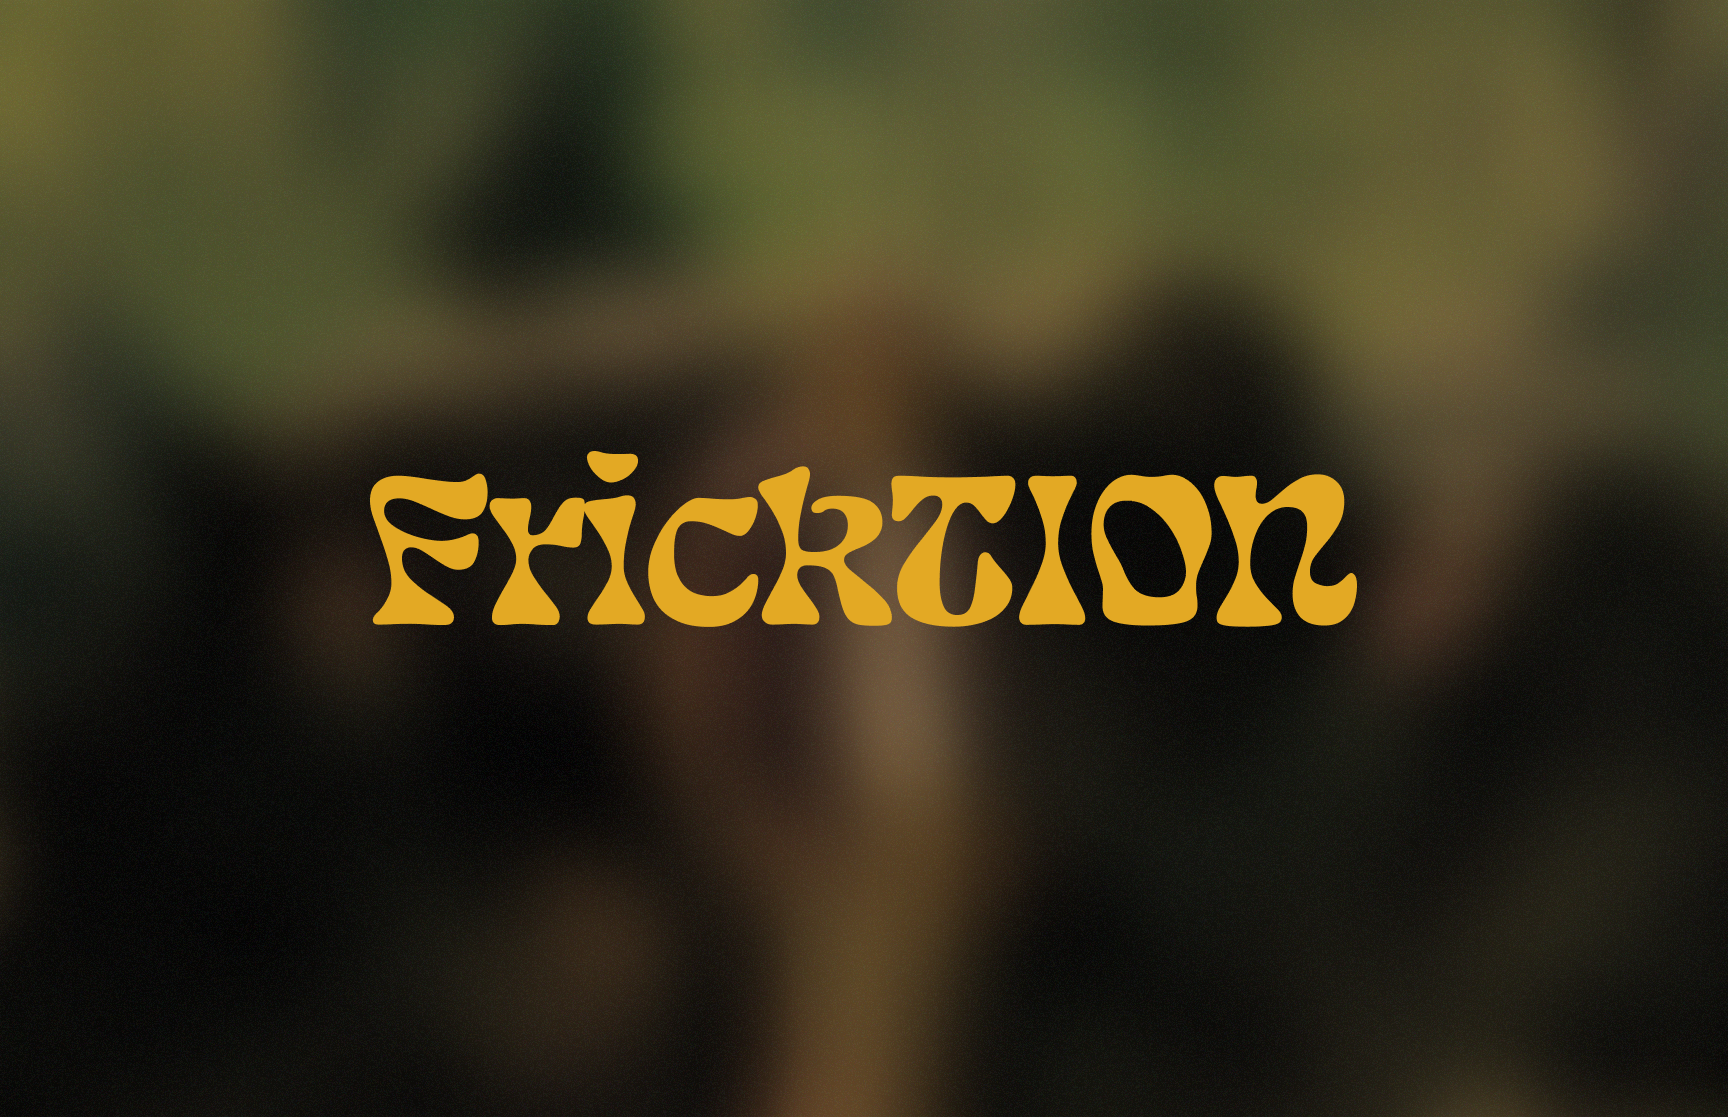
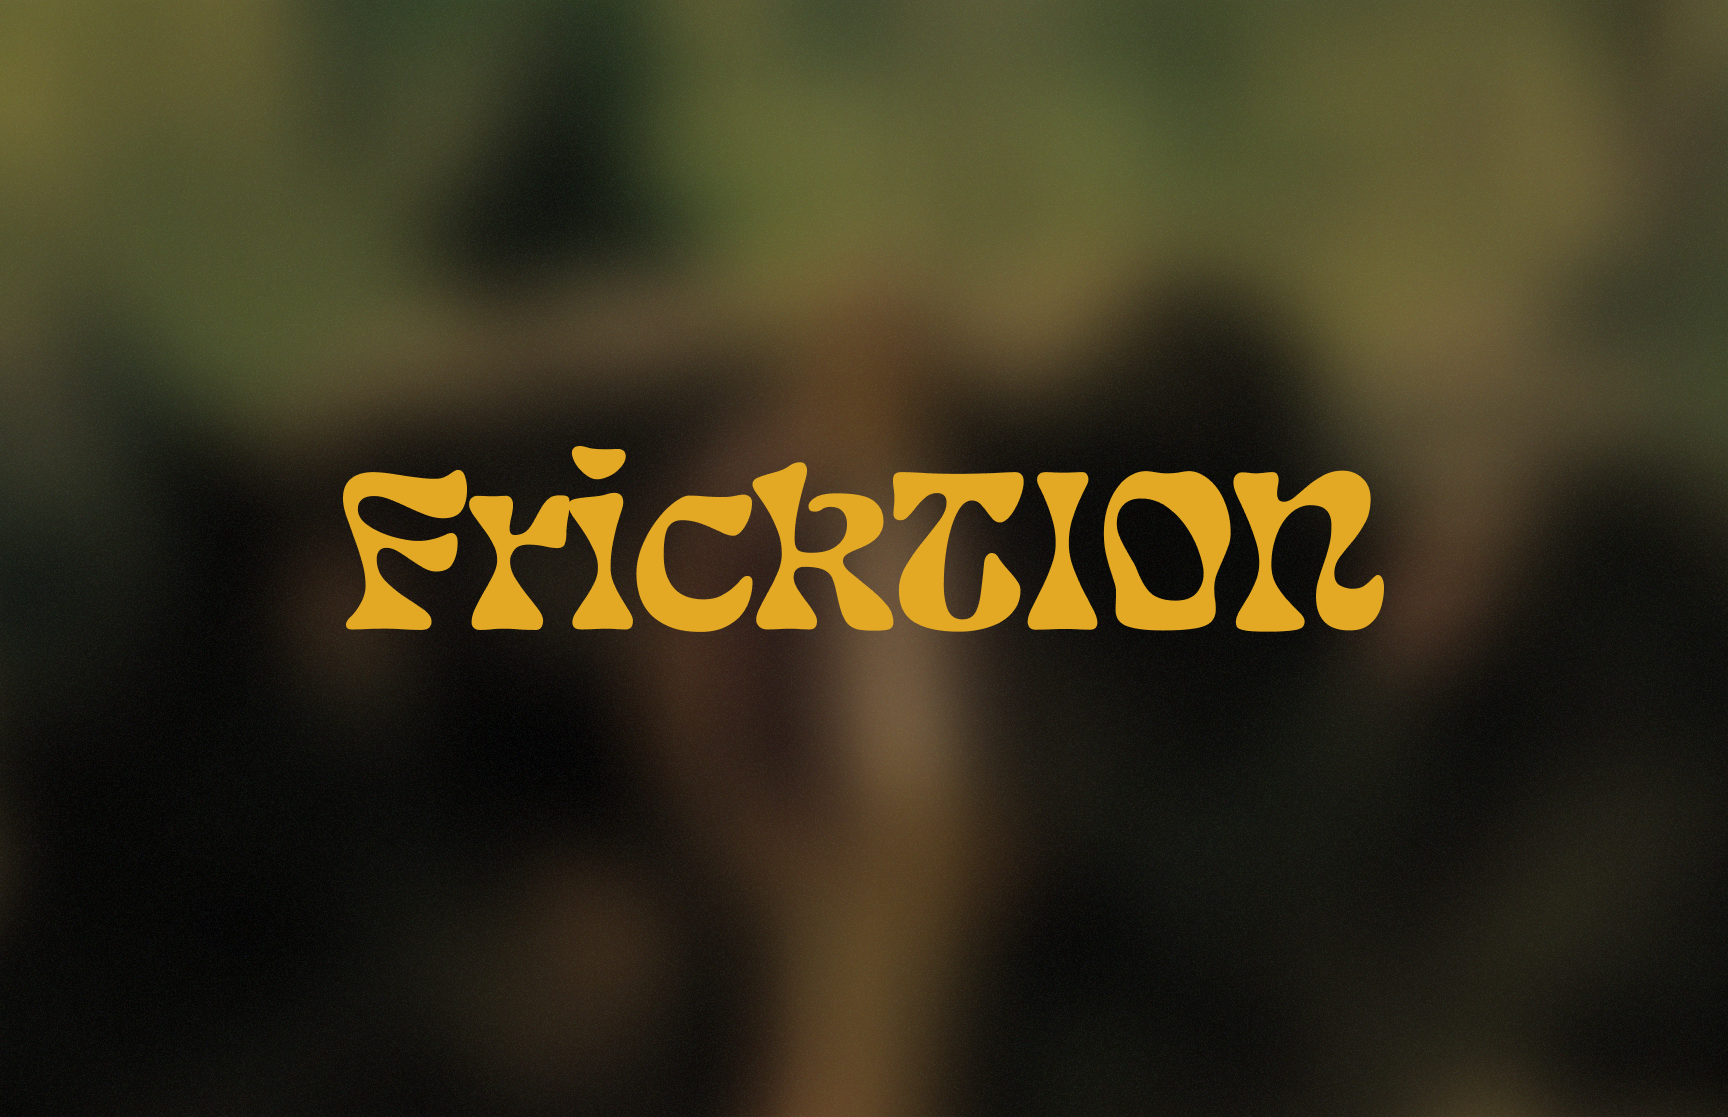
Adjusted the fricktion_banner_mobile to fit sm scr

Changed region(s): [[0.1875, 0.3957, 0.8125, 0.5783]]

diff --git a/index.html b/index.html
@@ -114,7 +114,7 @@
                 <p>Mulligan</p>
                 <p class="text-neutral-50/50">App</p>
               </div>
-              <a href="modus.html"
+              <a href="mulligan.html"
                 ><img src="../images/mulligan_preview.png" alt="Mulligan"
               /></a>
             </div>
@@ -263,7 +263,7 @@
                 <p>Mulligan</p>
                 <p class="text-neutral-50/50">App</p>
               </div>
-              <a href="modus.html"
+              <a href="mulligan.html"
                 ><img
                   src="../images/mulligan_preview.png"
                   class="w-full opacity-80 transition-opacity duration-100 ease-in-out hover:opacity-100"

diff --git a/fricktion.html b/fricktion.html
@@ -43,7 +43,7 @@
         </div>
         <img
           class="object-cover h-500 w-full pb-8"
-          src="../images/fricktion_banner.png"
+          src="../images/fricktion_banner_mobile.png"
           alt="Fricktion"
         />
         <div class="flex flex-col gap-4 px-4 pb-16">
